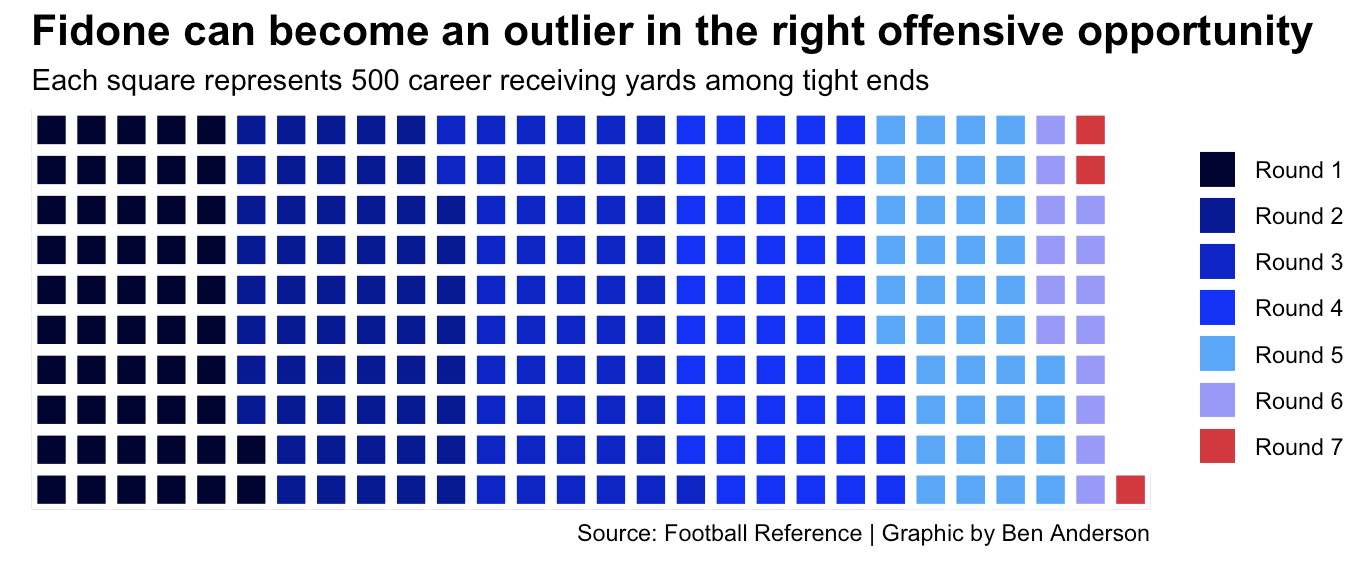
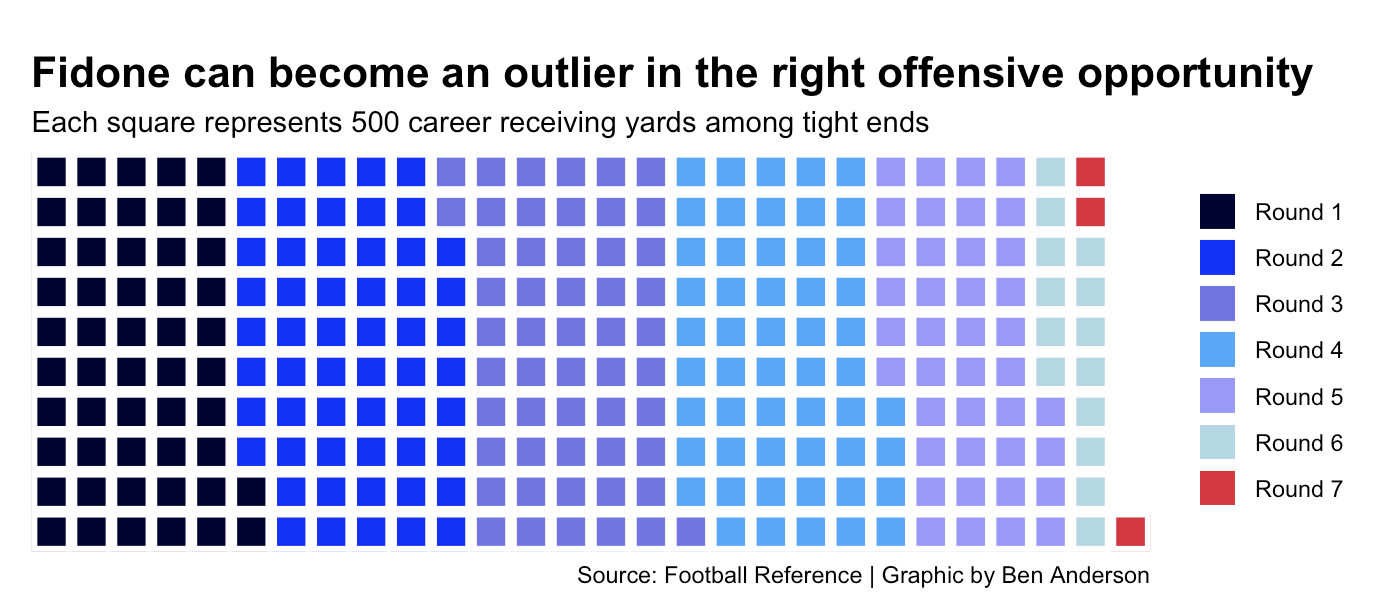
Changed waffle chart color scheme

diff --git a/posts/how-successful-are-tight-ends-drafted-in-seventh-round/index.html b/posts/how-successful-are-tight-ends-drafted-in-seventh-round/index.html
@@ -245,7 +245,7 @@ pre > code.sourceCode > span > a:first-child::before { text-decoration: underlin
 <span id="cb1-48"><a href="#cb1-48" aria-hidden="true" tabindex="-1"></a></span>
 <span id="cb1-49"><a href="#cb1-49" aria-hidden="true" tabindex="-1"></a> <span class="fu">waffle</span>(rounds<span class="sc">/</span><span class="dv">500</span>,</span>
 <span id="cb1-50"><a href="#cb1-50" aria-hidden="true" tabindex="-1"></a>        <span class="at">rows =</span> <span class="dv">10</span>,</span>
-<span id="cb1-51"><a href="#cb1-51" aria-hidden="true" tabindex="-1"></a>        <span class="at">colors =</span> <span class="fu">c</span>(<span class="st">"#000033"</span>, <span class="st">"#000099"</span>, <span class="st">"#0000cc"</span>, <span class="st">"#0000ff"</span>, <span class="st">"#37a9ff"</span>, <span class="st">"#9999ff"</span>, <span class="st">"#E41C38"</span>)</span>
+<span id="cb1-51"><a href="#cb1-51" aria-hidden="true" tabindex="-1"></a>        <span class="at">colors =</span> <span class="fu">c</span>(<span class="st">"#000033"</span>, <span class="st">"#0000ff"</span>, <span class="st">"#6e75e8"</span>, <span class="st">"#37a9ff"</span>, <span class="st">"#9999ff"</span>, <span class="st">"lightblue"</span>, <span class="st">"#E41C38"</span>)</span>
 <span id="cb1-52"><a href="#cb1-52" aria-hidden="true" tabindex="-1"></a> ) <span class="sc">+</span></span>
 <span id="cb1-53"><a href="#cb1-53" aria-hidden="true" tabindex="-1"></a>   <span class="fu">labs</span>(</span>
 <span id="cb1-54"><a href="#cb1-54" aria-hidden="true" tabindex="-1"></a>     <span class="at">xlab=</span><span class="st">"1 square = 500 receiving yards"</span>,</span>
@@ -353,23 +353,23 @@ pre > code.sourceCode > span > a:first-child::before { text-decoration: underlin
 <span id="cb3-48"><a href="#cb3-48" aria-hidden="true" tabindex="-1"></a>  )</span></code><button title="Copy to Clipboard" class="code-copy-button"><i class="bi"></i></button></pre></div>
 </details>
 <div class="cell-output-display">
-<div id="jdmoniivsd" style="padding-left:0px;padding-right:0px;padding-top:10px;padding-bottom:10px;overflow-x:auto;overflow-y:auto;width:auto;height:auto;">
-<style>#jdmoniivsd table {
+<div id="pgjabqmbqk" style="padding-left:0px;padding-right:0px;padding-top:10px;padding-bottom:10px;overflow-x:auto;overflow-y:auto;width:auto;height:auto;">
+<style>#pgjabqmbqk table {
   font-family: system-ui, 'Segoe UI', Roboto, Helvetica, Arial, sans-serif, 'Apple Color Emoji', 'Segoe UI Emoji', 'Segoe UI Symbol', 'Noto Color Emoji';
   -webkit-font-smoothing: antialiased;
   -moz-osx-font-smoothing: grayscale;
 }
 
-#jdmoniivsd thead, #jdmoniivsd tbody, #jdmoniivsd tfoot, #jdmoniivsd tr, #jdmoniivsd td, #jdmoniivsd th {
+#pgjabqmbqk thead, #pgjabqmbqk tbody, #pgjabqmbqk tfoot, #pgjabqmbqk tr, #pgjabqmbqk td, #pgjabqmbqk th {
   border-style: none;
 }
 
-#jdmoniivsd p {
+#pgjabqmbqk p {
   margin: 0;
   padding: 0;
 }
 
-#jdmoniivsd .gt_table {
+#pgjabqmbqk .gt_table {
   display: table;
   border-collapse: collapse;
   line-height: normal;
@@ -395,12 +395,12 @@ pre > code.sourceCode > span > a:first-child::before { text-decoration: underlin
   border-left-color: #D3D3D3;
 }
 
-#jdmoniivsd .gt_caption {
+#pgjabqmbqk .gt_caption {
   padding-top: 4px;
   padding-bottom: 4px;
 }
 
-#jdmoniivsd .gt_title {
+#pgjabqmbqk .gt_title {
   color: #333333;
   font-size: 125%;
   font-weight: initial;
@@ -412,7 +412,7 @@ pre > code.sourceCode > span > a:first-child::before { text-decoration: underlin
   border-bottom-width: 0;
 }
 
-#jdmoniivsd .gt_subtitle {
+#pgjabqmbqk .gt_subtitle {
   color: #333333;
   font-size: 85%;
   font-weight: initial;
@@ -424,7 +424,7 @@ pre > code.sourceCode > span > a:first-child::before { text-decoration: underlin
   border-top-width: 0;
 }
 
-#jdmoniivsd .gt_heading {
+#pgjabqmbqk .gt_heading {
   background-color: #FFFFFF;
   text-align: center;
   border-bottom-color: #FFFFFF;
@@ -436,13 +436,13 @@ pre > code.sourceCode > span > a:first-child::before { text-decoration: underlin
   border-right-color: #D3D3D3;
 }
 
-#jdmoniivsd .gt_bottom_border {
+#pgjabqmbqk .gt_bottom_border {
   border-bottom-style: none;
   border-bottom-width: 2px;
   border-bottom-color: #D3D3D3;
 }
 
-#jdmoniivsd .gt_col_headings {
+#pgjabqmbqk .gt_col_headings {
   border-top-style: none;
   border-top-width: 2px;
   border-top-color: #D3D3D3;
@@ -457,7 +457,7 @@ pre > code.sourceCode > span > a:first-child::before { text-decoration: underlin
   border-right-color: #D3D3D3;
 }
 
-#jdmoniivsd .gt_col_heading {
+#pgjabqmbqk .gt_col_heading {
   color: #333333;
   background-color: #FFFFFF;
   font-size: 100%;
@@ -477,7 +477,7 @@ pre > code.sourceCode > span > a:first-child::before { text-decoration: underlin
   overflow-x: hidden;
 }
 
-#jdmoniivsd .gt_column_spanner_outer {
+#pgjabqmbqk .gt_column_spanner_outer {
   color: #333333;
   background-color: #FFFFFF;
   font-size: 100%;
@@ -489,15 +489,15 @@ pre > code.sourceCode > span > a:first-child::before { text-decoration: underlin
   padding-right: 4px;
 }
 
-#jdmoniivsd .gt_column_spanner_outer:first-child {
+#pgjabqmbqk .gt_column_spanner_outer:first-child {
   padding-left: 0;
 }
 
-#jdmoniivsd .gt_column_spanner_outer:last-child {
+#pgjabqmbqk .gt_column_spanner_outer:last-child {
   padding-right: 0;
 }
 
-#jdmoniivsd .gt_column_spanner {
+#pgjabqmbqk .gt_column_spanner {
   border-bottom-style: none;
   border-bottom-width: 2px;
   border-bottom-color: #D3D3D3;
@@ -509,11 +509,11 @@ pre > code.sourceCode > span > a:first-child::before { text-decoration: underlin
   width: 100%;
 }
 
-#jdmoniivsd .gt_spanner_row {
+#pgjabqmbqk .gt_spanner_row {
   border-bottom-style: hidden;
 }
 
-#jdmoniivsd .gt_group_heading {
+#pgjabqmbqk .gt_group_heading {
   padding-top: 8px;
   padding-bottom: 8px;
   padding-left: 5px;
@@ -539,7 +539,7 @@ pre > code.sourceCode > span > a:first-child::before { text-decoration: underlin
   text-align: left;
 }
 
-#jdmoniivsd .gt_empty_group_heading {
+#pgjabqmbqk .gt_empty_group_heading {
   padding: 0.5px;
   color: #333333;
   background-color: #FFFFFF;
@@ -554,15 +554,15 @@ pre > code.sourceCode > span > a:first-child::before { text-decoration: underlin
   vertical-align: middle;
 }
 
-#jdmoniivsd .gt_from_md > :first-child {
+#pgjabqmbqk .gt_from_md > :first-child {
   margin-top: 0;
 }
 
-#jdmoniivsd .gt_from_md > :last-child {
+#pgjabqmbqk .gt_from_md > :last-child {
   margin-bottom: 0;
 }
 
-#jdmoniivsd .gt_row {
+#pgjabqmbqk .gt_row {
   padding-top: 8px;
   padding-bottom: 8px;
   padding-left: 5px;
@@ -581,7 +581,7 @@ pre > code.sourceCode > span > a:first-child::before { text-decoration: underlin
   overflow-x: hidden;
 }
 
-#jdmoniivsd .gt_stub {
+#pgjabqmbqk .gt_stub {
   color: #333333;
   background-color: #FFFFFF;
   font-size: 100%;
@@ -594,7 +594,7 @@ pre > code.sourceCode > span > a:first-child::before { text-decoration: underlin
   padding-right: 5px;
 }
 
-#jdmoniivsd .gt_stub_row_group {
+#pgjabqmbqk .gt_stub_row_group {
   color: #333333;
   background-color: #FFFFFF;
   font-size: 100%;
@@ -608,15 +608,15 @@ pre > code.sourceCode > span > a:first-child::before { text-decoration: underlin
   vertical-align: top;
 }
 
-#jdmoniivsd .gt_row_group_first td {
+#pgjabqmbqk .gt_row_group_first td {
   border-top-width: 2px;
 }
 
-#jdmoniivsd .gt_row_group_first th {
+#pgjabqmbqk .gt_row_group_first th {
   border-top-width: 2px;
 }
 
-#jdmoniivsd .gt_summary_row {
+#pgjabqmbqk .gt_summary_row {
   color: #333333;
   background-color: #FFFFFF;
   text-transform: inherit;
@@ -626,16 +626,16 @@ pre > code.sourceCode > span > a:first-child::before { text-decoration: underlin
   padding-right: 5px;
 }
 
-#jdmoniivsd .gt_first_summary_row {
+#pgjabqmbqk .gt_first_summary_row {
   border-top-style: none;
   border-top-color: #D3D3D3;
 }
 
-#jdmoniivsd .gt_first_summary_row.thick {
+#pgjabqmbqk .gt_first_summary_row.thick {
   border-top-width: 2px;
 }
 
-#jdmoniivsd .gt_last_summary_row {
+#pgjabqmbqk .gt_last_summary_row {
   padding-top: 8px;
   padding-bottom: 8px;
   padding-left: 5px;
@@ -645,7 +645,7 @@ pre > code.sourceCode > span > a:first-child::before { text-decoration: underlin
   border-bottom-color: #D3D3D3;
 }
 
-#jdmoniivsd .gt_grand_summary_row {
+#pgjabqmbqk .gt_grand_summary_row {
   color: #333333;
   background-color: #FFFFFF;
   text-transform: inherit;
@@ -655,7 +655,7 @@ pre > code.sourceCode > span > a:first-child::before { text-decoration: underlin
   padding-right: 5px;
 }
 
-#jdmoniivsd .gt_first_grand_summary_row {
+#pgjabqmbqk .gt_first_grand_summary_row {
   padding-top: 8px;
   padding-bottom: 8px;
   padding-left: 5px;
@@ -665,7 +665,7 @@ pre > code.sourceCode > span > a:first-child::before { text-decoration: underlin
   border-top-color: #D3D3D3;
 }
 
-#jdmoniivsd .gt_last_grand_summary_row_top {
+#pgjabqmbqk .gt_last_grand_summary_row_top {
   padding-top: 8px;
   padding-bottom: 8px;
   padding-left: 5px;
@@ -675,11 +675,11 @@ pre > code.sourceCode > span > a:first-child::before { text-decoration: underlin
   border-bottom-color: #D3D3D3;
 }
 
-#jdmoniivsd .gt_striped {
+#pgjabqmbqk .gt_striped {
   background-color: rgba(128, 128, 128, 0.05);
 }
 
-#jdmoniivsd .gt_table_body {
+#pgjabqmbqk .gt_table_body {
   border-top-style: none;
   border-top-width: 2px;
   border-top-color: #D3D3D3;
@@ -688,7 +688,7 @@ pre > code.sourceCode > span > a:first-child::before { text-decoration: underlin
   border-bottom-color: #D3D3D3;
 }
 
-#jdmoniivsd .gt_footnotes {
+#pgjabqmbqk .gt_footnotes {
   color: #333333;
   background-color: #FFFFFF;
   border-bottom-style: none;
@@ -702,7 +702,7 @@ pre > code.sourceCode > span > a:first-child::before { text-decoration: underlin
   border-right-color: #D3D3D3;
 }
 
-#jdmoniivsd .gt_footnote {
+#pgjabqmbqk .gt_footnote {
   margin: 0px;
   font-size: 90%;
   padding-top: 4px;
@@ -711,7 +711,7 @@ pre > code.sourceCode > span > a:first-child::before { text-decoration: underlin
   padding-right: 5px;
 }
 
-#jdmoniivsd .gt_sourcenotes {
+#pgjabqmbqk .gt_sourcenotes {
   color: #333333;
   background-color: #FFFFFF;
   border-bottom-style: none;
@@ -725,7 +725,7 @@ pre > code.sourceCode > span > a:first-child::before { text-decoration: underlin
   border-right-color: #D3D3D3;
 }
 
-#jdmoniivsd .gt_sourcenote {
+#pgjabqmbqk .gt_sourcenote {
   font-size: 90%;
   padding-top: 4px;
   padding-bottom: 4px;
@@ -733,72 +733,72 @@ pre > code.sourceCode > span > a:first-child::before { text-decoration: underlin
   padding-right: 5px;
 }
 
-#jdmoniivsd .gt_left {
+#pgjabqmbqk .gt_left {
   text-align: left;
 }
 
-#jdmoniivsd .gt_center {
+#pgjabqmbqk .gt_center {
   text-align: center;
 }
 
-#jdmoniivsd .gt_right {
+#pgjabqmbqk .gt_right {
   text-align: right;
   font-variant-numeric: tabular-nums;
 }
 
-#jdmoniivsd .gt_font_normal {
+#pgjabqmbqk .gt_font_normal {
   font-weight: normal;
 }
 
-#jdmoniivsd .gt_font_bold {
+#pgjabqmbqk .gt_font_bold {
   font-weight: bold;
 }
 
-#jdmoniivsd .gt_font_italic {
+#pgjabqmbqk .gt_font_italic {
   font-style: italic;
 }
 
-#jdmoniivsd .gt_super {
+#pgjabqmbqk .gt_super {
   font-size: 65%;
 }
 
-#jdmoniivsd .gt_footnote_marks {
+#pgjabqmbqk .gt_footnote_marks {
   font-size: 75%;
   vertical-align: 0.4em;
   position: initial;
 }
 
-#jdmoniivsd .gt_asterisk {
+#pgjabqmbqk .gt_asterisk {
   font-size: 100%;
   vertical-align: 0;
 }
 
-#jdmoniivsd .gt_indent_1 {
+#pgjabqmbqk .gt_indent_1 {
   text-indent: 5px;
 }
 
-#jdmoniivsd .gt_indent_2 {
+#pgjabqmbqk .gt_indent_2 {
   text-indent: 10px;
 }
 
-#jdmoniivsd .gt_indent_3 {
+#pgjabqmbqk .gt_indent_3 {
   text-indent: 15px;
 }
 
-#jdmoniivsd .gt_indent_4 {
+#pgjabqmbqk .gt_indent_4 {
   text-indent: 20px;
 }
 
-#jdmoniivsd .gt_indent_5 {
+#pgjabqmbqk .gt_indent_5 {
   text-indent: 25px;
 }
 
-#jdmoniivsd .katex-display {
+#pgjabqmbqk .katex-display {
   display: inline-flex !important;
   margin-bottom: 0.75em !important;
 }
 
-#jdmoniivsd div.Reactable > div.rt-table > div.rt-thead > div.rt-tr.rt-tr-group-header > div.rt-th-group:after {
+#pgjabqmbqk div.Reactable > div.rt-table > div.rt-thead > div.rt-tr.rt-tr-group-header > div.rt-th-group:after {
   height: 0px !important;
 }
 </style>

diff --git a/index.html b/index.html
@@ -200,7 +200,7 @@ window.Quarto = {
 
 <div class="quarto-listing quarto-listing-container-default" id="listing-listing">
 <div class="list quarto-listing-default">
-<div class="quarto-post image-right" data-index="0" data-categories="football,draft,Nebraska" data-listing-date-sort="1745989200000" data-listing-file-modified-sort="1746201496428" data-listing-date-modified-sort="NaN" data-listing-reading-time-sort="7" data-listing-word-count-sort="1299">
+<div class="quarto-post image-right" data-index="0" data-categories="football,draft,Nebraska" data-listing-date-sort="1745989200000" data-listing-file-modified-sort="1746202311089" data-listing-date-modified-sort="NaN" data-listing-reading-time-sort="7" data-listing-word-count-sort="1299">
 <div class="thumbnail">
 <p><a href="./posts/how-successful-are-tight-ends-drafted-in-seventh-round/index.html" class="no-external"></a></p><a href="./posts/how-successful-are-tight-ends-drafted-in-seventh-round/index.html" class="no-external">
 <p><img loading="lazy" src="./posts/how-successful-are-tight-ends-drafted-in-seventh-round/image.png" class="thumbnail-image"></p>
